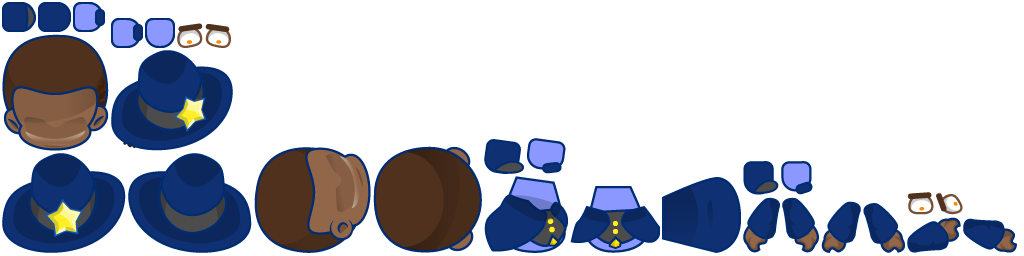
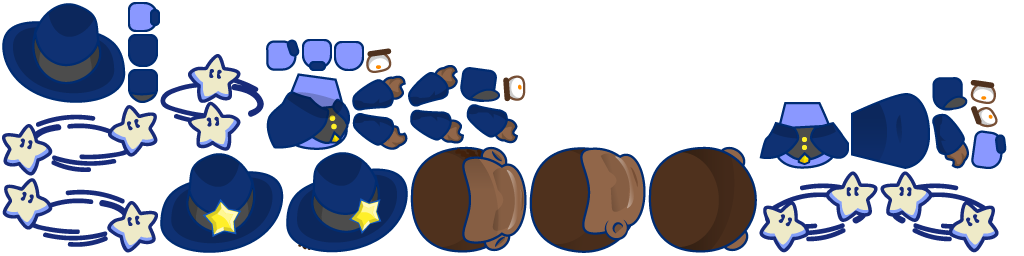
animaciones back_idle y back_wrong agregadas

diff --git a/nonrefactored/milkySaloon/milkySaloon/js/scenes/milky.js b/nonrefactored/milkySaloon/milkySaloon/js/scenes/milky.js
@@ -571,7 +571,7 @@ var milky = function(){
         magician = game.add.group()
         magician.x = game.world.centerX + 50
         magician.y = game.world.centerY + 100
-        magician.scale.setTo(0.8, 0.8)
+        magician.scale.setTo(0.76, 0.76)
         sceneGroup.add(magician)
         
         var magicianSpine = game.add.spine(0, 0, "magician")
@@ -698,7 +698,7 @@ var milky = function(){
         if(doorsOpen)
             destinyY = bar.y - 80
         else
-            destinyY = bar.y + 70
+            destinyY = bar.y + 115
         
         mugsGroup.scale.setTo(0)
         moveMagician(destinyX, destinyY, walkTime, btn.flavor)
@@ -729,32 +729,49 @@ var milky = function(){
             magician.children[0].setAnimationByName(0, "SIDE_WALK", false)
         }
         
+        if(y < bar.y){
+            var delay = 900
+        }
+        else{
+            var delay = 250
+        }
+        
+        
         game.add.tween(magician).to({x:x}, wt, Phaser.Easing.Linear.Out, true).onComplete.add(function(){
         
             magician.children[0].setAnimationByName(0, "BACK_WALK", false)
-            game.add.tween(magician).to({y:y}, 700, Phaser.Easing.Linear.Out, true).onComplete.add(function(){
+            game.add.tween(magician).to({y:y}, delay, Phaser.Easing.Linear.Out, true).onComplete.add(function(){
+                
+                var hit = game.add.tween(magician).to({y:y}, 600, Phaser.Easing.Linear.Out, true)
                 
                 if(y < bar.y){
                     sound.play("squeeze")
                     changeImage(ans, mugsGroup)
+                    magician.children[0].setAnimationByName(0, "BACK_IDLE", false)
                 }
-                magician.children[0].setAnimationByName(0, "FRONT_WALK", false)
+                else{
+                    sound.play("cog")
+                    magician.children[0].setAnimationByName(0, "BACK_WRONG", false)
+                }
                 
-                game.add.tween(magician).to({y: game.world.centerY + 100}, 700, Phaser.Easing.Linear.Out, true).onComplete.add(function(){
-                    
-                    if(x < game.world.centerX){
-                        magician.children[0].scale.setTo(1, 1)
-                        magician.children[0].setAnimationByName(0, "SIDE_WALK", false)
-                    }
-                    else{
-                        magician.children[0].scale.setTo(-1, 1)
-                        magician.children[0].setAnimationByName(0, "SIDE_WALK", false)
-                    }
-                    
-                    game.add.tween(magician).to({x: game.world.centerX + 50}, wt, Phaser.Easing.Linear.Out, true).onComplete.add(function(){
-                        
-                        magician.children[0].addAnimationByName(0, "IDLE", true)
-                        serveMilk(ans)
+                hit.onComplete.add(function(){
+                    magician.children[0].setAnimationByName(0, "FRONT_WALK", false)
+                    game.add.tween(magician).to({y: game.world.centerY + 100}, 700, Phaser.Easing.Linear.Out, true).onComplete.add(function(){
+
+                        if(x < game.world.centerX){
+                            magician.children[0].scale.setTo(1, 1)
+                            magician.children[0].setAnimationByName(0, "SIDE_WALK", false)
+                        }
+                        else{
+                            magician.children[0].scale.setTo(-1, 1)
+                            magician.children[0].setAnimationByName(0, "SIDE_WALK", false)
+                        }
+
+                        game.add.tween(magician).to({x: game.world.centerX + 50}, wt, Phaser.Easing.Linear.Out, true).onComplete.add(function(){
+
+                            magician.children[0].addAnimationByName(0, "IDLE", true)
+                            serveMilk(ans)
+                        })
                     })
                 })
             })
